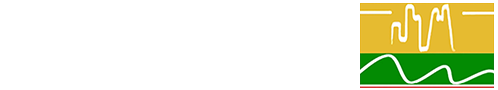
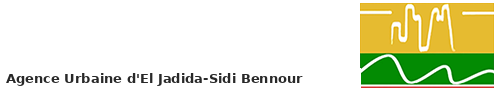
Replace Nador/AUNADOR branding with AUEJSB El Jadida-Sidi Bennour
Regenerate header logos from the correct AUEJSB artwork, point email
templates at auejsb_1.jpg, correct legacy footers/titles, and add a
config update plus mail_alter so activation emails stop showing Nador.

Changed region(s): [[0.0, 0.8, 0.6325, 0.9556]]

diff --git a/modules/custom/notemail/src/Helper/Helper.php b/modules/custom/notemail/src/Helper/Helper.php
@@ -48,14 +48,14 @@ public static function sendMail($to, $code, $title,$titre_foncier){
       $module = 'notemail';
       $key = 'create_article';
       $to = $to;
-      $logo = 'https://auejsb.ma/themes/auer/images/auejsb-fr.png';
+      $logo = 'https://auejsb.ma/themes/auer/images/auejsb_1.jpg';
       $messageBody = "<html lang='en'><head><meta http-equiv='Content-Type' content='text/html; charset=utf-8'> <title>  L'Agence Urbaine d'ElJadida Sidi Bennour </title></head><body><div>
                                     <table style='width:525pt;' cellspacing='0' cellpadding='0' border='0' width='875'>
                                         <tbody>
                                             <tr style='height:30pt;' height='50'>
                                                 <td valign='top'>
                                                     <div style='margin:0;'>
-                                                        <img src='. $logo .' >
+                                                        <img src='" . $logo . "' >
                                                     </div>
                                                 </td>
                                                 <td></td>
@@ -82,11 +82,11 @@ public static function sendMail($to, $code, $title,$titre_foncier){
                                                             <font size='3' face='Times New Roman,serif'>
                                                                 <span style='font-size:12pt;'>
                                                                     <font size='2' color='#666666' face='Helvetica,sans-serif'>
-                                                                        <span style='font-size:8.5pt;'>".$config->get('footer1')."</span>
+                                                                        <span style='font-size:8.5pt;'>".\_notemail_branding_footer($config->get('footer1'))."</span>
                                                                     </font>
                                                                     <font size='2' color='#666666' face='Helvetica,sans-serif'>
                                                                         <span style='font-size:8.5pt;'>
-                                                                            <br>".$config->get('footer2')."
+                                                                            <br>".\_notemail_branding_footer($config->get('footer2'), '')."
                                                                         </span>
                                                                     </font>
                                                                 </span>
@@ -154,14 +154,14 @@ public static function sendMailEnEchange($to, $code,$nom,$prenom, $title,$titre_
       $to = $to;
       	  $search  = array('[code]', '[nom]', '[prenom]','[titre_f]','[observations]');
 	  $replace = array($code , $nom, $prenom,$titre_foncier,$observations);
-      $logo = 'https://auejsb.ma/themes/auer/images/auejsb-fr.png';
+      $logo = 'https://auejsb.ma/themes/auer/images/auejsb_1.jpg';
       $messageBody = "<html lang='en'><head><meta http-equiv='Content-Type' content='text/html; charset=utf-8'> <title>  L'Agence Urbaine d'ElJadida Sidi Bennour </title></head><body><div>
                                     <table style='width:525pt;' cellspacing='0' cellpadding='0' border='0' width='875'>
                                         <tbody>
                                             <tr style='height:30pt;' height='50'>
                                                 <td valign='top'>
                                                     <div style='margin:0;'>
-                                                        <img src='. $logo .' >
+                                                        <img src='" . $logo . "' >
                                                     </div>
                                                 </td>
                                                 <td></td>
@@ -188,11 +188,11 @@ public static function sendMailEnEchange($to, $code,$nom,$prenom, $title,$titre_
                                                             <font size='3' face='Times New Roman,serif'>
                                                                 <span style='font-size:12pt;'>
                                                                     <font size='2' color='#666666' face='Helvetica,sans-serif'>
-                                                                        <span style='font-size:8.5pt;'>".$config->get('footer1')."</span>
+                                                                        <span style='font-size:8.5pt;'>".\_notemail_branding_footer($config->get('footer1'))."</span>
                                                                     </font>
                                                                     <font size='2' color='#666666' face='Helvetica,sans-serif'>
                                                                         <span style='font-size:8.5pt;'>
-                                                                            <br>".$config->get('footer2')."
+                                                                            <br>".\_notemail_branding_footer($config->get('footer2'), '')."
                                                                         </span>
                                                                     </font>
                                                                 </span>
@@ -260,14 +260,14 @@ public static function sendMailFinal($to, $code, $title,$note,$titre_foncier){
       $mailManager = \Drupal::service('plugin.manager.mail');
       $module = 'notemail';
       $key = 'send_note';
-      $logo = 'https://auejsb.ma/themes/auer/images/auejsb-fr.png';
+      $logo = 'https://auejsb.ma/themes/auer/images/auejsb_1.jpg';
       $messageBody = "<html lang='en'><head><title>  L'Agence Urbaine d'ElJadida Sidi Bennour </title></head><body><div>
                                     <table style='width:525pt;' cellspacing='0' cellpadding='0' border='0' width='875'>
                                         <tbody>
                                             <tr style='height:30pt;' height='50'>
                                                 <td valign='top'>
                                                     <div style='margin:0;'>
-                                                        <img src='. $logo .' >
+                                                        <img src='" . $logo . "' >
                                                     </div>
                                                 </td>
                                                 <td></td>
@@ -298,11 +298,11 @@ public static function sendMailFinal($to, $code, $title,$note,$titre_foncier){
                                                             <font size='3' face='Times New Roman,serif'>
                                                                 <span style='font-size:12pt;'>
                                                                     <font size='2' color='#666666' face='Helvetica,sans-serif'>
-                                                                        <span style='font-size:8.5pt;'>".$config->get('footer1')."</span>
+                                                                        <span style='font-size:8.5pt;'>".\_notemail_branding_footer($config->get('footer1'))."</span>
                                                                     </font>
                                                                     <font size='2' color='#666666' face='Helvetica,sans-serif'>
                                                                         <span style='font-size:8.5pt;'>
-                                                                            <br>".$config->get('footer2')."
+                                                                            <br>".\_notemail_branding_footer($config->get('footer2'), '')."
                                                                         </span>
                                                                     </font>
                                                                 </span>
@@ -365,14 +365,14 @@ public static function sendMailFinal($to, $code, $title,$note,$titre_foncier){
       $mailManager = \Drupal::service('plugin.manager.mail');
       $module = 'notemail';
       $key = 'create_article';
-      $logo = 'https://auejsb.ma/themes/auer/images/auejsb-fr.png';
+      $logo = 'https://auejsb.ma/themes/auer/images/auejsb_1.jpg';
       $params['message'] = "<html lang='en'><head><title>  L'Agence Urbaine d'ElJadida Sidi Bennour </title></head><body><div>
                                     <table style='width:525pt;' cellspacing='0' cellpadding='0' border='0' width='875'>
                                         <tbody>
                                             <tr style='height:30pt;' height='50'>
                                                 <td valign='top'>
                                                     <div style='margin:0;'>
-                                                        <img src='. $logo .' >
+                                                        <img src='" . $logo . "' >
                                                     </div>
                                                 </td>
                                                 <td></td>
@@ -418,11 +418,11 @@ public static function sendMailFinal($to, $code, $title,$note,$titre_foncier){
                                                             <font size='3' face='Times New Roman,serif'>
                                                                 <span style='font-size:12pt;'>
                                                                     <font size='2' color='#666666' face='Helvetica,sans-serif'>
-                                                                        <span style='font-size:8.5pt;'>".$config->get('footer1')."</span>
+                                                                        <span style='font-size:8.5pt;'>".\_notemail_branding_footer($config->get('footer1'))."</span>
                                                                     </font>
                                                                     <font size='2' color='#666666' face='Helvetica,sans-serif'>
                                                                         <span style='font-size:8.5pt;'>
-                                                                            <br>".$config->get('footer2')."
+                                                                            <br>".\_notemail_branding_footer($config->get('footer2'), '')."
                                                                         </span>
                                                                     </font>
                                                                 </span>
@@ -488,14 +488,14 @@ public static function sendMailAnnulerpaiement($to, $code, $title){
       $mailManager = \Drupal::service('plugin.manager.mail');
       $module = 'notemail';
       $key = 'create_article';
-      $logo = 'https://auejsb.ma/themes/auer/images/auejsb-fr.png';
+      $logo = 'https://auejsb.ma/themes/auer/images/auejsb_1.jpg';
       $params['message'] = "<html lang='en'><head><title>  L'Agence Urbaine d'ElJadida Sidi Bennour </title></head><body><div>
                                     <table style='width:525pt;' cellspacing='0' cellpadding='0' border='0' width='875'>
                                         <tbody>
                                             <tr style='height:30pt;' height='50'>
                                                 <td valign='top'>
                                                     <div style='margin:0;'>
-                                                        <img src='. $logo .' >
+                                                        <img src='" . $logo . "' >
                                                     </div>
                                                 </td>
                                                 <td></td>
@@ -523,11 +523,11 @@ public static function sendMailAnnulerpaiement($to, $code, $title){
                                                             <font size='3' face='Times New Roman,serif'>
                                                                 <span style='font-size:12pt;'>
                                                                     <font size='2' color='#666666' face='Helvetica,sans-serif'>
-                                                                        <span style='font-size:8.5pt;'>".$config->get('footer1')."</span>
+                                                                        <span style='font-size:8.5pt;'>".\_notemail_branding_footer($config->get('footer1'))."</span>
                                                                     </font>
                                                                     <font size='2' color='#666666' face='Helvetica,sans-serif'>
                                                                         <span style='font-size:8.5pt;'>
-                                                                            <br>".$config->get('footer2')."
+                                                                            <br>".\_notemail_branding_footer($config->get('footer2'), '')."
                                                                         </span>
                                                                     </font>
                                                                 </span>
@@ -560,7 +560,7 @@ public static function sendMailAnnulerpaiement_cci($to, $code, $title,$nom , $pr
 	  $config = \Drupal::config('notemail.settings');
       $mailManager = \Drupal::service('plugin.manager.mail');
       $module = 'notemail';
-      $logo = 'https://auejsb.ma/themes/auer/images/auejsb-fr.png';
+      $logo = 'https://auejsb.ma/themes/auer/images/auejsb_1.jpg';
       $key = 'create_article';
       $params['message'] = "<html lang='en'><head><title>  L'Agence Urbaine d'ElJadida Sidi Bennour </title></head><body><div>
                                     <table style='width:525pt;' cellspacing='0' cellpadding='0' border='0' width='875'>
@@ -606,11 +606,11 @@ public static function sendMailAnnulerpaiement_cci($to, $code, $title,$nom , $pr
                                                             <font size='3' face='Times New Roman,serif'>
                                                                 <span style='font-size:12pt;'>
                                                                     <font size='2' color='#666666' face='Helvetica,sans-serif'>
-                                                                        <span style='font-size:8.5pt;'>".$config->get('footer1')."</span>
+                                                                        <span style='font-size:8.5pt;'>".\_notemail_branding_footer($config->get('footer1'))."</span>
                                                                     </font>
                                                                     <font size='2' color='#666666' face='Helvetica,sans-serif'>
                                                                         <span style='font-size:8.5pt;'>
-                                                                            <br>".$config->get('footer2')."
+                                                                            <br>".\_notemail_branding_footer($config->get('footer2'), '')."
                                                                         </span>
                                                                     </font>
                                                                 </span>

diff --git a/modules/md_new_prestation/src/Helper/Helper.php b/modules/md_new_prestation/src/Helper/Helper.php
@@ -84,7 +84,7 @@ public static function sendMailFirst($email, $commune, $ndeg_dossier, $province,
         $key = 'create_product';
         $subject = "Validation de votre demande de paiement – Autorisations d’urbanisme";
         
-        $logo = 'https://auejsb.ma/themes/auer/images/auejsb-fr.png';
+        $logo = 'https://auejsb.ma/themes/auer/images/auejsb_1.jpg';
 
         // Construct email body
         $params['message'] = Markup::create("
@@ -124,11 +124,11 @@ public static function sendMailFirst($email, $commune, $ndeg_dossier, $province,
                                                             <font size='3' face='Times New Roman,serif'>
                                                                 <span style='font-size:12pt;'>
                                                                     <font size='2' color='#666666' face='Helvetica,sans-serif'>
-                                                                        <span style='font-size:8.5pt;'>".$config->get('footer1')."</span>
+                                                                        <span style='font-size:8.5pt;'>".\_notemail_branding_footer($config->get('footer1'))."</span>
                                                                     </font>
                                                                     <font size='2' color='#666666' face='Helvetica,sans-serif'>
                                                                         <span style='font-size:8.5pt;'>
-                                                                            <br>".$config->get('footer2')."
+                                                                            <br>".\_notemail_branding_footer($config->get('footer2'), '')."
                                                                         </span>
                                                                     </font>
                                                                 </span>
@@ -181,7 +181,7 @@ public static function sendMailDeclaration($email, $commune, $ndeg_dossier, $pro
         $key = 'create_product';
         $subject = "Validation de votre demande de paiement – Autorisations d’urbanisme";
         
-        $logo = 'https://auejsb.ma/themes/auer/images/auejsb-fr.png';
+        $logo = 'https://auejsb.ma/themes/auer/images/auejsb_1.jpg';
 
         // Construct email body
         $params['message'] = Markup::create("
@@ -221,11 +221,11 @@ public static function sendMailDeclaration($email, $commune, $ndeg_dossier, $pro
                                                             <font size='3' face='Times New Roman,serif'>
                                                                 <span style='font-size:12pt;'>
                                                                     <font size='2' color='#666666' face='Helvetica,sans-serif'>
-                                                                        <span style='font-size:8.5pt;'>".$config->get('footer1')."</span>
+                                                                        <span style='font-size:8.5pt;'>".\_notemail_branding_footer($config->get('footer1'))."</span>
                                                                     </font>
                                                                     <font size='2' color='#666666' face='Helvetica,sans-serif'>
                                                                         <span style='font-size:8.5pt;'>
-                                                                            <br>".$config->get('footer2')."
+                                                                            <br>".\_notemail_branding_footer($config->get('footer2'), '')."
                                                                         </span>
                                                                     </font>
                                                                 </span>
@@ -279,7 +279,7 @@ public static function sendMailRejet($email, $commune, $ndeg_dossier, $province,
         $key = 'rejet_product';
         $subject = "État de votre dossier N° : " . $ndeg_dossier;
         
-        $logo = 'https://auejsb.ma/themes/auer/images/auejsb-fr.png';
+        $logo = 'https://auejsb.ma/themes/auer/images/auejsb_1.jpg';
 
         // Construct email body
         $params['message'] = Markup::create("
@@ -319,11 +319,11 @@ public static function sendMailRejet($email, $commune, $ndeg_dossier, $province,
                                                             <font size='3' face='Times New Roman,serif'>
                                                                 <span style='font-size:12pt;'>
                                                                     <font size='2' color='#666666' face='Helvetica,sans-serif'>
-                                                                        <span style='font-size:8.5pt;'>".$config->get('footer1')."</span>
+                                                                        <span style='font-size:8.5pt;'>".\_notemail_branding_footer($config->get('footer1'))."</span>
                                                                     </font>
                                                                     <font size='2' color='#666666' face='Helvetica,sans-serif'>
                                                                         <span style='font-size:8.5pt;'>
-                                                                            <br>".$config->get('footer2')."
+                                                                            <br>".\_notemail_branding_footer($config->get('footer2'), '')."
                                                                         </span>
                                                                     </font>
                                                                 </span>
@@ -377,7 +377,7 @@ public static function sendMailFacturation($email, $commune, $ndeg_dossier, $pro
         $key = 'facturation_product';
         $subject = "Disponibilité de votre facture pour le dossier N° " . $ndeg_dossier;
         
-        $logo = 'https://auejsb.ma/themes/auer/images/auejsb-fr.png';
+        $logo = 'https://auejsb.ma/themes/auer/images/auejsb_1.jpg';
 
         // Construct email body
         $params['message'] = Markup::create("
@@ -417,11 +417,11 @@ public static function sendMailFacturation($email, $commune, $ndeg_dossier, $pro
                                                             <font size='3' face='Times New Roman,serif'>
                                                                 <span style='font-size:12pt;'>
                                                                     <font size='2' color='#666666' face='Helvetica,sans-serif'>
-                                                                        <span style='font-size:8.5pt;'>".$config->get('footer1')."</span>
+                                                                        <span style='font-size:8.5pt;'>".\_notemail_branding_footer($config->get('footer1'))."</span>
                                                                     </font>
                                                                     <font size='2' color='#666666' face='Helvetica,sans-serif'>
                                                                         <span style='font-size:8.5pt;'>
-                                                                            <br>".$config->get('footer2')."
+                                                                            <br>".\_notemail_branding_footer($config->get('footer2'), '')."
                                                                         </span>
                                                                     </font>
                                                                 </span>

diff --git a/modules/custom/d8mail/src/Instruction/Instruction.php b/modules/custom/d8mail/src/Instruction/Instruction.php
@@ -28,13 +28,13 @@ class Instruction{
   $module = 'd8mail';
   $key = 'node_insert';
   $to = $to; 
-  $params['message'] = "<html lang='en'><head><title> L'Agence Urbaine de Beni Mellal </title></head><body><div>
+  $params['message'] = "<html lang='en'><head><title> L'Agence Urbaine d'El Jadida-Sidi Bennour </title></head><body><div>
                                     <table style='width:525pt;' cellspacing='0' cellpadding='0' border='0' width='875'>
                                         <tbody>
                                             <tr style='height:30pt;' height='50'>
                                                 <td valign='top'>
                                                     <div style='margin:0;'>
-                                                        <img src='http://auejsb.ma/themes/auer/images/auejsb_1.jpg' >
+                                                        <img src='https://auejsb.ma/themes/auer/images/auejsb_1.jpg' >
                                                     </div>
                                                 </td>
                                                 <td></td>
@@ -61,11 +61,11 @@ class Instruction{
                                                             <font size='3' face='Times New Roman,serif'>
                                                                 <span style='font-size:12pt;'>
                                                                     <font size='2' color='#666666' face='Helvetica,sans-serif'>
-                                                                        <span style='font-size:8.5pt;'>".$config->get('footer1')."</span>
+                                                                        <span style='font-size:8.5pt;'>".\_notemail_branding_footer($config->get('footer1'))."</span>
                                                                     </font>
                                                                     <font size='2' color='#666666' face='Helvetica,sans-serif'>
                                                                         <span style='font-size:8.5pt;'>
-                                                                            <br>".$config->get('footer2')."
+                                                                            <br>".\_notemail_branding_footer($config->get('footer2'), '')."
                                                                         </span>
                                                                     </font>
                                                                 </span>
@@ -102,13 +102,13 @@ public static function sendMailFinal($to, $code, $title){
   $module = 'd8mail';
   $key = 'node_insert';
   $to = $to; 
-      $params['message'] = "<html lang='en'><head><title> Agence Urbaine de Beni Mellal </title></head><body><div>
+      $params['message'] = "<html lang='en'><head><title> Agence Urbaine d'El Jadida-Sidi Bennour </title></head><body><div>
                                     <table style='width:525pt;' cellspacing='0' cellpadding='0' border='0' width='875'>
                                         <tbody>
                                             <tr style='height:30pt;' height='50'>
                                                 <td valign='top'>
                                                     <div style='margin:0;'>
-                                                        <img src='http://auejsb.ma/themes/auer/images/auejsb_1.jpg' >
+                                                        <img src='https://auejsb.ma/themes/auer/images/auejsb_1.jpg' >
                                                     </div>
                                                 </td>
                                                 <td></td>
@@ -137,11 +137,11 @@ public static function sendMailFinal($to, $code, $title){
                                                             <font size='3' face='Times New Roman,serif'>
                                                                 <span style='font-size:12pt;'>
                                                                     <font size='2' color='#666666' face='Helvetica,sans-serif'>
-                                                                        <span style='font-size:8.5pt;'>".$config->get('footer1')."</span>
+                                                                        <span style='font-size:8.5pt;'>".\_notemail_branding_footer($config->get('footer1'))."</span>
                                                                     </font>
                                                                     <font size='2' color='#666666' face='Helvetica,sans-serif'>
                                                                         <span style='font-size:8.5pt;'>
-                                                                            <br>".$config->get('footer2')."
+                                                                            <br>".\_notemail_branding_footer($config->get('footer2'), '')."
                                                                         </span>
                                                                     </font>
                                                                 </span>

diff --git a/modules/custom/commerce_cmi/src/Helper/Aunote.php b/modules/custom/commerce_cmi/src/Helper/Aunote.php
@@ -94,7 +94,7 @@ class Aunote {
                                             <tr style='height:30pt;' height='50'>
                                                 <td valign='top'>
                                                     <div style='margin:0;'>
-                                                        <img src='https://auejsb.ma/themes/auer/images/auejsb-fr.png' >
+                                                        <img src='https://auejsb.ma/themes/auer/images/auejsb_1.jpg' >
                                                     </div>
                                                 </td>
                                                 <td></td>
@@ -144,11 +144,11 @@ class Aunote {
                                                             <font size='3' face='Times New Roman,serif'>
                                                                 <span style='font-size:12pt;'>
                                                                     <font size='2' color='#666666' face='Helvetica,sans-serif'>
-                                                                        <span style='font-size:8.5pt;'>" . $config->get('footer1') . "</span>
+                                                                        <span style='font-size:8.5pt;'>" . \_notemail_branding_footer($config->get('footer1')) . "</span>
                                                                     </font>
                                                                     <font size='2' color='#666666' face='Helvetica,sans-serif'>
                                                                         <span style='font-size:8.5pt;'>
-                                                                            <br>" . $config->get('footer2') . "
+                                                                            <br>" . \_notemail_branding_footer($config->get('footer2'), '') . "
                                                                         </span>
                                                                     </font>
                                                                 </span>
@@ -195,7 +195,7 @@ class Aunote {
                                             <tr style='height:30pt;' height='50'>
                                                 <td valign='top'>
                                                     <div style='margin:0;'>
-                                                        <img src='https://auejsb.ma/themes/auer/images/auejsb-fr.png' >
+                                                        <img src='https://auejsb.ma/themes/auer/images/auejsb_1.jpg' >
                                                     </div>
                                                 </td>
                                                 <td></td>
@@ -222,11 +222,11 @@ class Aunote {
                                                             <font size='3' face='Times New Roman,serif'>
                                                                 <span style='font-size:12pt;'>
                                                                     <font size='2' color='#666666' face='Helvetica,sans-serif'>
-                                                                        <span style='font-size:8.5pt;'>" . $config->get('footer1') . "</span>
+                                                                        <span style='font-size:8.5pt;'>" . \_notemail_branding_footer($config->get('footer1')) . "</span>
                                                                     </font>
                                                                     <font size='2' color='#666666' face='Helvetica,sans-serif'>
                                                                         <span style='font-size:8.5pt;'>
-                                                                            <br>" . $config->get('footer2') . "
+                                                                            <br>" . \_notemail_branding_footer($config->get('footer2'), '') . "
                                                                         </span>
                                                                     </font>
                                                                 </span>
